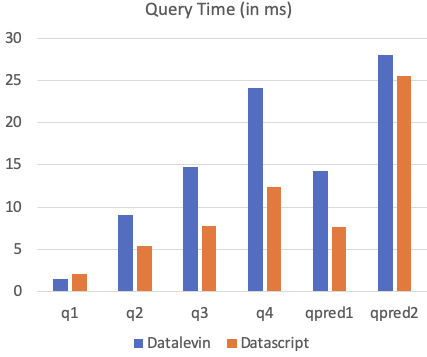
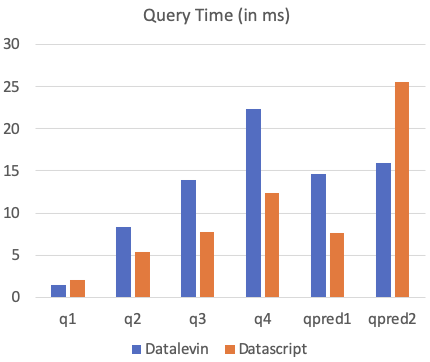
latest benchmark

diff --git a/README.md b/README.md
@@ -110,7 +110,7 @@ benchmark suite of Datascript, here is how it looks.
 <img src="bench/datalevin-bench-write-07-15-2020.png" alt="write benchmark" height="240"></img>
 </p>
 
-Considering that we are comparing a disk store with a memory store, the query time of Datalevin is not bad.
+Considering that we are comparing a disk store with a memory store, the query time of Datalevin is not bad. In some queries, Datalevin is even faster than Datascript, likely due to the AVE index that is always on in Datalevin.
 
 Writes can be a few orders of magnitude slower, as expected, as Datalevin
 is writing to disk while Datascript is in memory. The bulk write speed is
